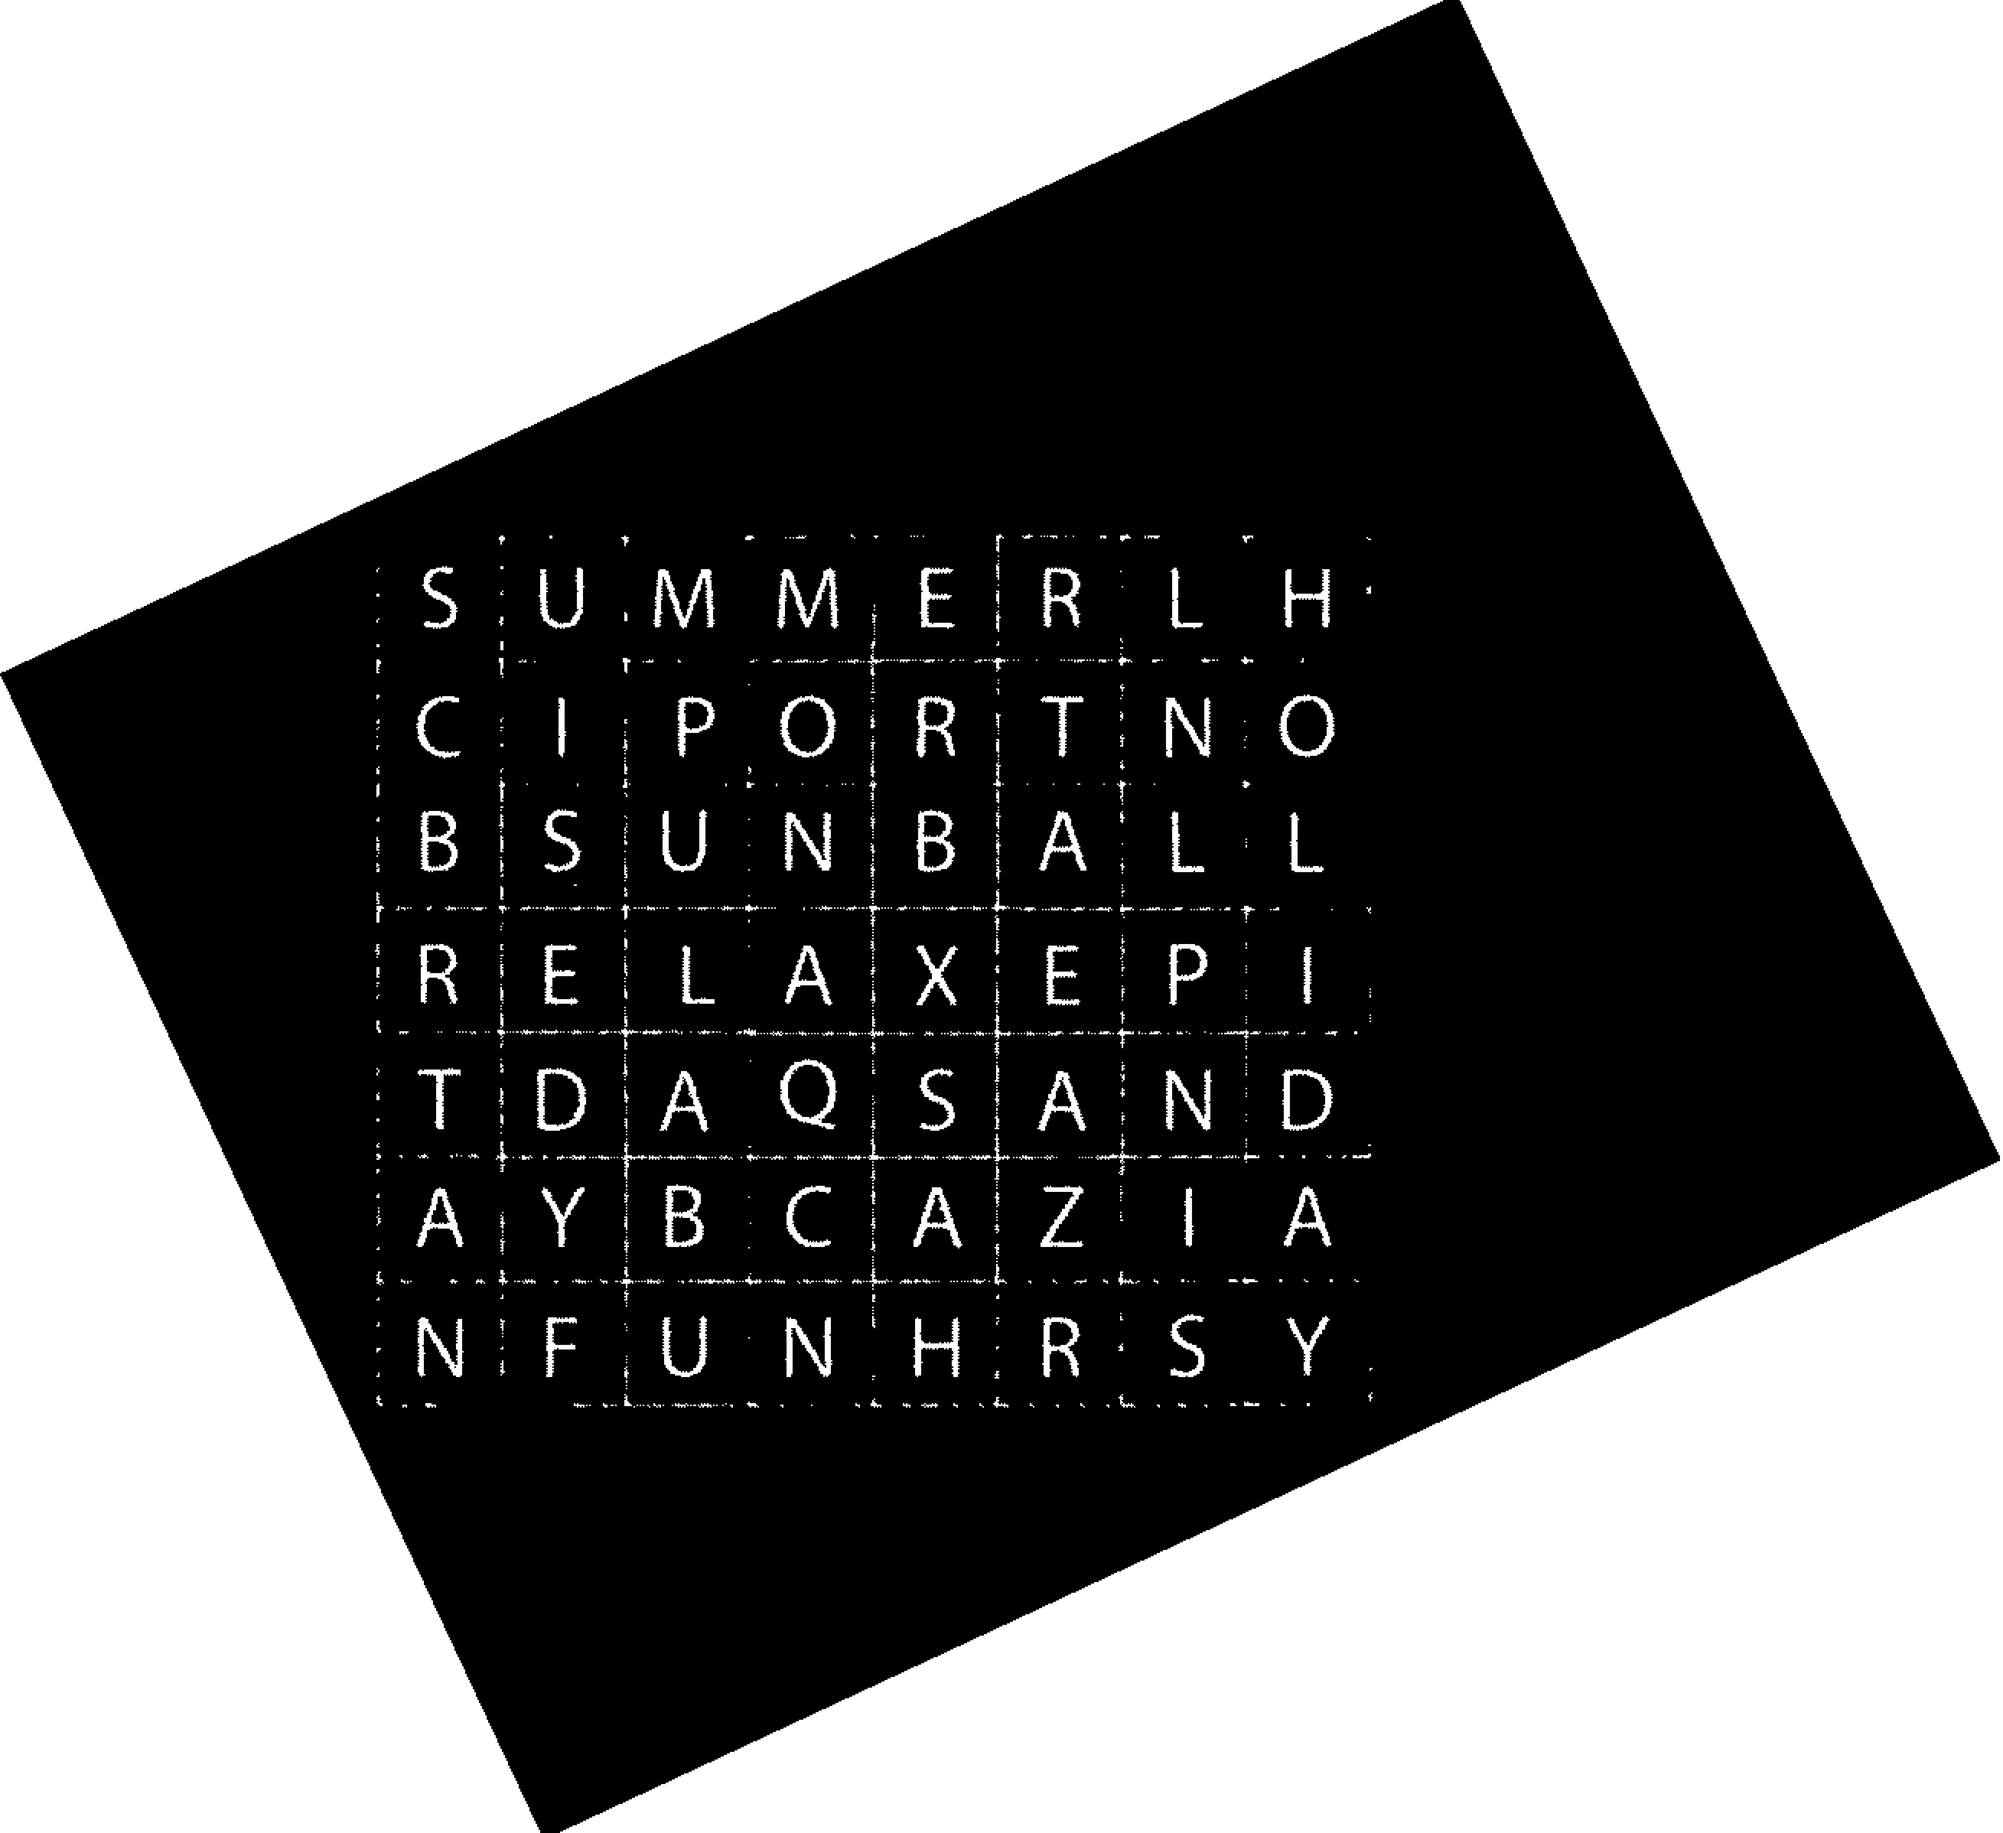
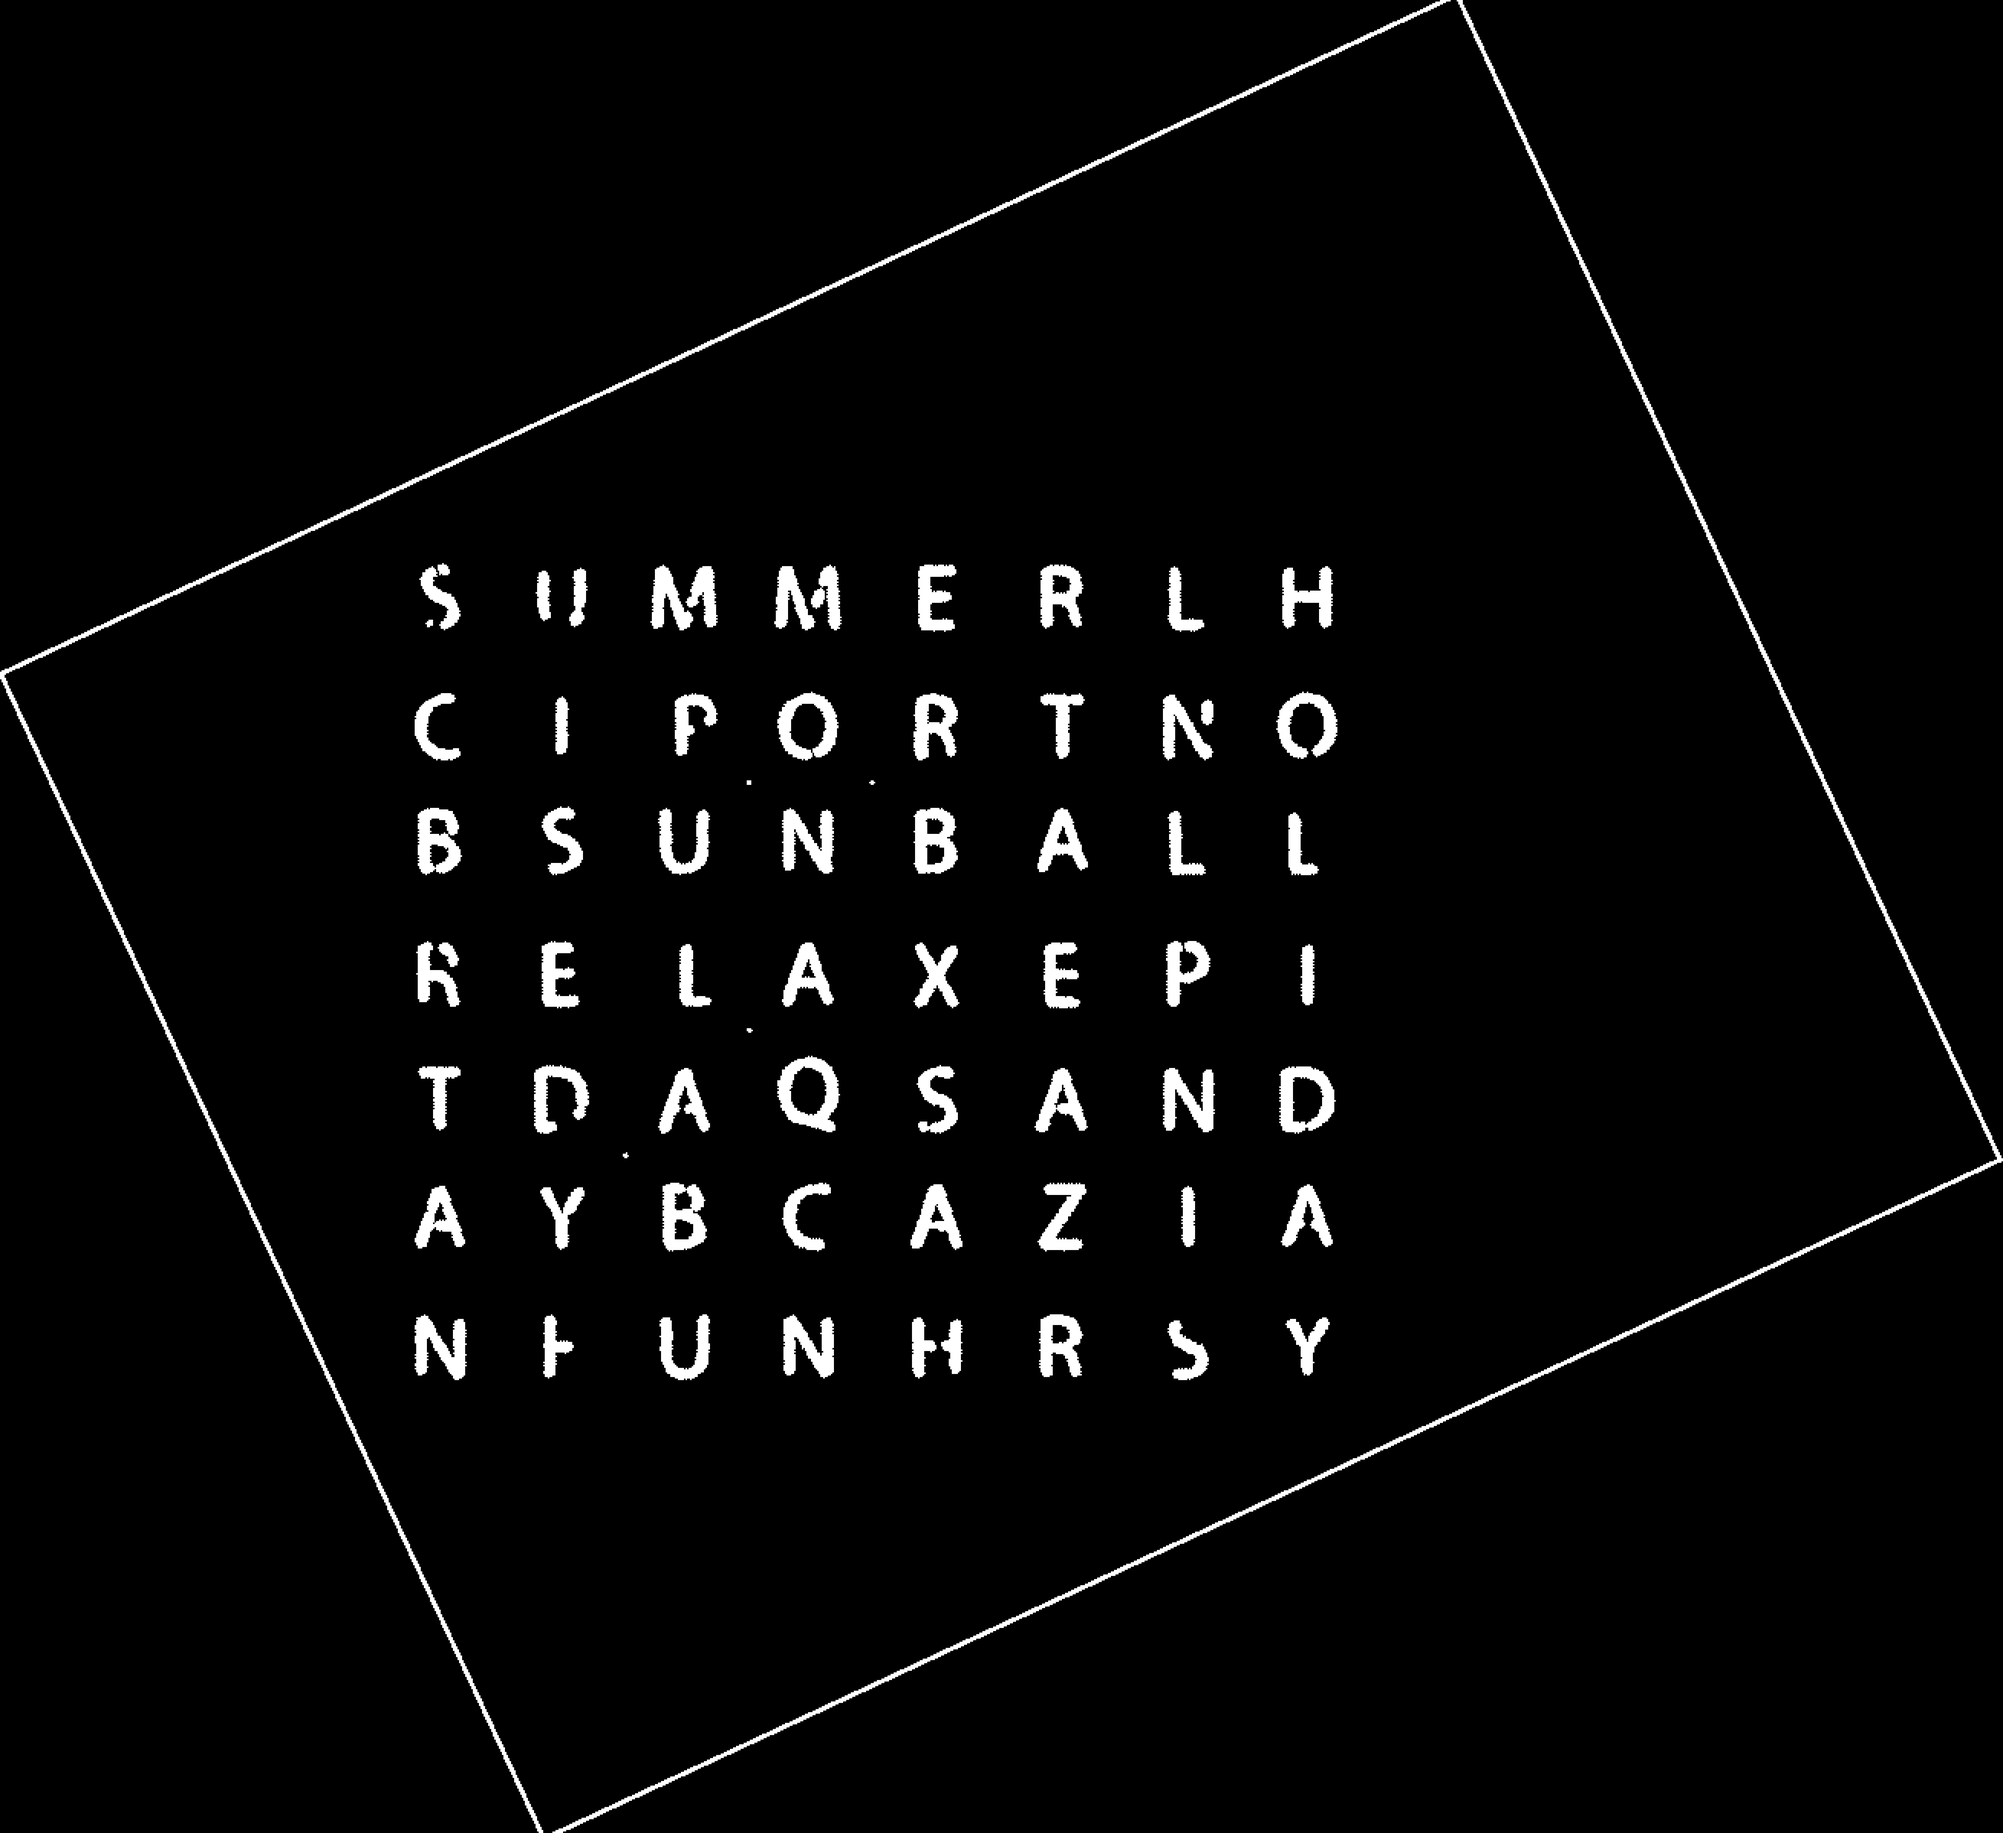
contrastboostworking

diff --git a/UI/main.c b/UI/main.c
@@ -60,8 +60,38 @@ void image_button(GtkWidget* widget, gpointer data)
 {
     const char* filename = gtk_entry_get_text(GTK_ENTRY(searchEntry));
     const char* buttonLabel = (const char*)data;
+    if (strcmp(buttonLabel, "Contrast Boost") == 0)
+    {
+        SDL_Surface* backgroundImage = IMG_Load(displayedimage);
+        printf("sachafait caca1");
+        if (backgroundImage) 
+        {
+            run_pretreatment(&backgroundImage, 6, 0);
+            printf("sachafait caca");
+            const char* outputPath = "data/post_PRT.png";
+            
+            if (backgroundImage) 
+            {
+                printf("SDL surface saved to: %s\n", outputPath);
+                displayedimage = outputPath;
+                gtk_image_set_from_file(GTK_IMAGE(imageWidget), displayedimage);
+                g_print("Displayed image updated to: ");
+            } 
+            else 
+            {
+                g_print("Failed to save SDL surface: %s\n", SDL_GetError());
+            }
 
-    if (strcmp(buttonLabel, "Pretreatment") == 0) 
+            SDL_FreeSurface(backgroundImage);
+        } 
+        else 
+        {
+            g_print("Failed to load image for automatic rotation");
+        }
+    }
+
+
+    else if (strcmp(buttonLabel, "Pretreatment") == 0) 
     {
         GtkWidget* dialog = gtk_dialog_new_with_buttons("Select Treatment Level",
                                                         GTK_WINDOW(gtk_widget_get_toplevel(widget)),
@@ -112,11 +142,6 @@ void image_button(GtkWidget* widget, gpointer data)
         }
     }
     
-
-
-
-
-    // TODO ############################################
     else if (strcmp(buttonLabel, "Rotation") == 0) 
     {
         GtkWidget *dialog = gtk_dialog_new_with_buttons(
@@ -176,7 +201,6 @@ void image_button(GtkWidget* widget, gpointer data)
 
         gtk_widget_destroy(dialog);
     }
-    //#########################################################
 
     else if (strcmp(buttonLabel, "Automatic Rotation") == 0) 
     {
@@ -205,21 +229,8 @@ void image_button(GtkWidget* widget, gpointer data)
         {
             g_print("Failed to load image for automatic rotation");
         }
+
     }
-
-
-
-
-
-
-
-
-
-
-
-
-
-
     
     else if (strcmp(buttonLabel, "Detection") == 0) 
     {
@@ -303,6 +314,7 @@ void load_button(GtkWidget* widget, gpointer data)
         if (g_file_test(filename, G_FILE_TEST_EXISTS))
         {
             gtk_image_set_from_file(GTK_IMAGE(imageWidget), filename);
+            displayedimage = filename;
             g_print("Loaded image: %s\n", filename);
         }
         else 
